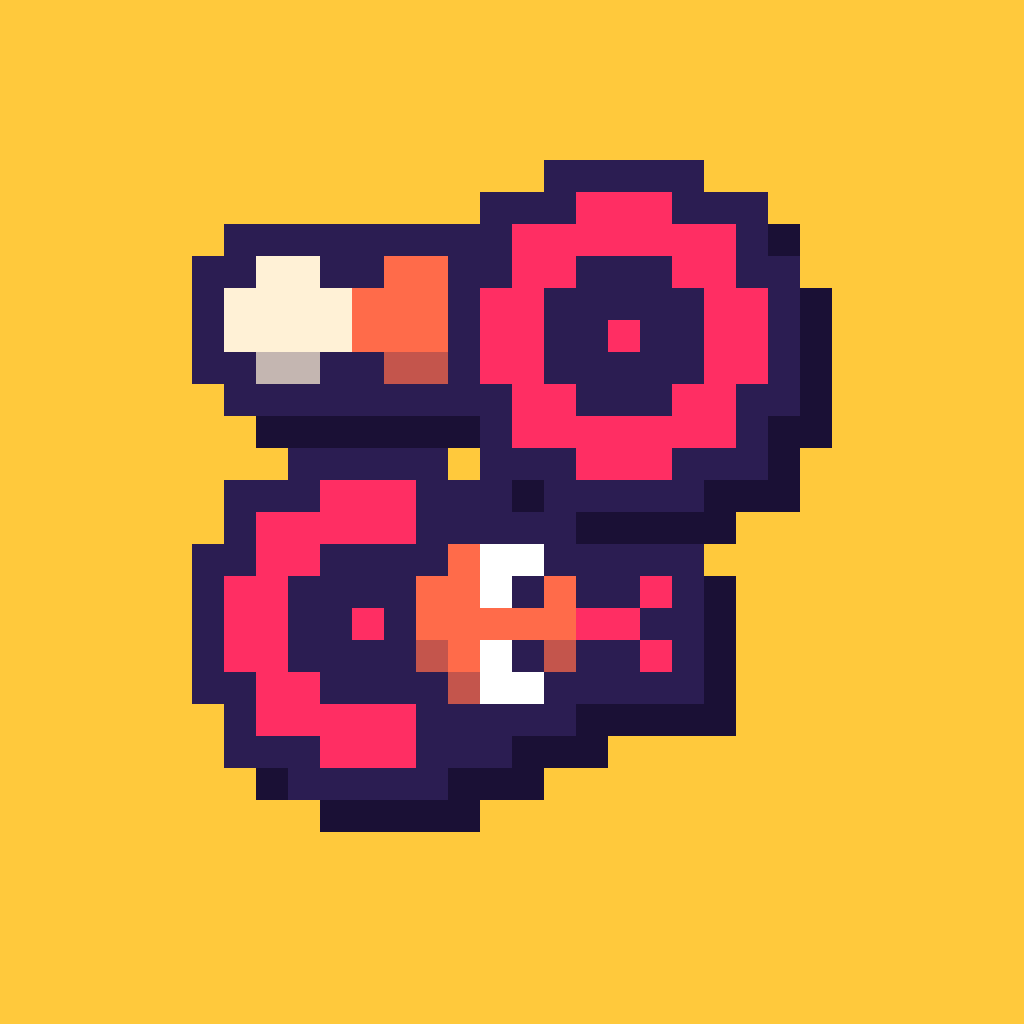
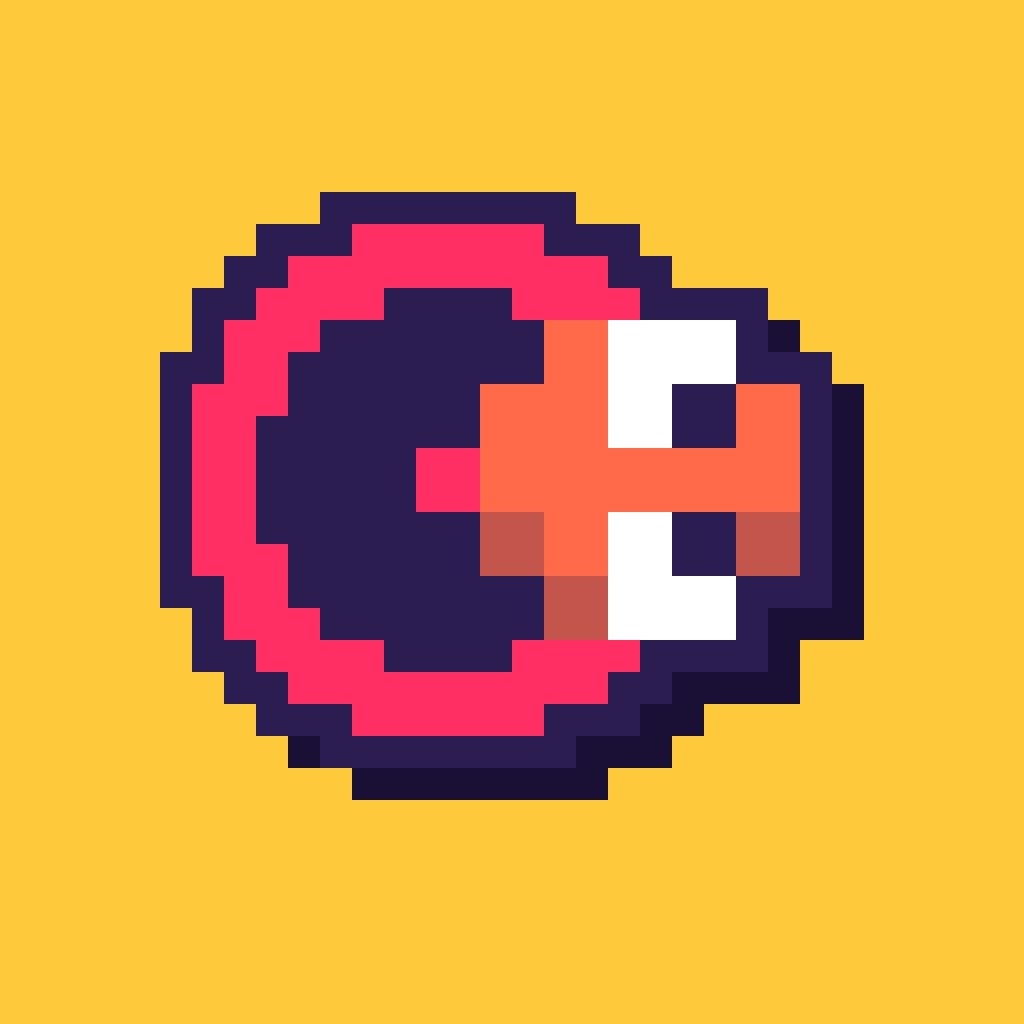
Redraw the wrap, portal and shed achievement images
The three read badly when shrunk to 64 pixels, so each is drawn again with
fewer, larger pieces.

wrap is the whole board in a cream wall: the head comes out of the wall at the
left, a segment goes into the wall at the right, with plain board between them.
portal is one large portal with the head in front of its dark centre, coming
out across the rim. shed is the live snake going up at the right and the
dropped end, a bomb on a segment, at the left, with clear yellow between them.

Picture.part takes an optional clip, so that a piece can be cut off by a wall.
The other nine images are the same bytes as before.

diff --git a/tools/game-center/make_images.py b/tools/game-center/make_images.py
@@ -138,12 +138,18 @@ class Picture:
         self.cells: dict[tuple[int, int], Colour] = {}
         self.silhouette: set[tuple[int, int]] = set()
 
-    def part(self, paint, outline: bool = True) -> None:  # noqa: ANN001
+    def part(self, paint, outline: bool = True, clip: set[tuple[int, int]] | None = None) -> None:  # noqa: ANN001
+        """Paints a piece. With `clip`, only the cells of the piece inside it are kept, and the outline is drawn round
+        what is left, outline too: a piece that goes through a wall is cut off by the wall."""
         layer = Layer()
         paint(layer)
+        if clip is not None:
+            layer.cells = {cell: colour for cell, colour in layer.cells.items() if cell in clip}
         edge = {
             (x + dx, y + dy) for x, y in layer.cells for dx in (-1, 0, 1) for dy in (-1, 0, 1)
         } - layer.cells.keys()
+        if clip is not None:
+            edge &= clip
         if outline:
             for cell in edge:
                 self.cells[cell] = self.palette.ink
@@ -309,21 +315,26 @@ def segment(layer: Layer, p: Palette, x: int, y: int, size: int, index: int) -> 
 
 
 def wrap(p: Palette) -> Picture:
-    """A snake leaving the right edge of a small board with its head coming in at the left."""
+    """The whole board with a cream wall round it: the snake's head comes out of the wall at the left, its body goes into
+    the wall at the right, and there is plain board between them, so it is one snake that went through the wall."""
     picture = Picture(p)
+    side = 19  # cells across the board with its wall, the most that fits the safe square with an outline and a shadow
+    inside = {(i, j) for j in range(1, side - 1) for i in range(1, side - 1)}
 
     def board(layer: Layer) -> None:
-        for j in range(17):
-            for i in range(14):
-                layer.dot(9 + i, 7 + j, p.board_light if (i // 2 + j // 2) % 2 else p.board_dark)
+        for j in range(side):
+            for i in range(side):
+                if (i, j) in inside:
+                    layer.dot(i, j, p.board_light if ((i - 1) // 3 + (j - 1) // 3) % 2 else p.board_dark)
+                else:
+                    layer.dot(i, j, p.cream)
 
     def body(layer: Layer) -> None:
-        segment(layer, p, 15, 13, 5, 1)
-        segment(layer, p, 20, 13, 5, 0)
+        segment(layer, p, 14, 7, 5, 0)
 
     picture.part(board)
-    picture.part(body)
-    picture.part(lambda layer: snake_head(layer, p, 6, 13, "right"))
+    picture.part(body, clip=inside)
+    picture.part(lambda layer: snake_head(layer, p, 0, 7, "right", tongue=False), clip=inside)
     return picture
 
 
@@ -427,17 +438,32 @@ def portals(p: Palette) -> Picture:
 
 
 def portal_through(p: Palette) -> Picture:
-    """A snake going into one portal, along the top, and its head coming out of another, along the bottom."""
+    """One large portal with the head of the snake, large, coming out of its dark centre and across its rim."""
     picture = Picture(p)
+    d = 16
 
-    def body(layer: Layer) -> None:
-        segment(layer, p, 5, 7, 4, 1)
-        segment(layer, p, 9, 7, 4, 0)
+    def ring(layer: Layer) -> None:
+        layer.disc(0, 0, d, p.pink)
+        layer.disc(2, 2, d - 4, p.ink)
+        layer.rect(d // 2 - 1, d // 2 - 1, 2, 2, p.pink)
 
-    picture.part(body)
-    picture.part(lambda layer: portal(layer, p, 13, 5, 9, p.pink))
-    picture.part(lambda layer: portal(layer, p, 5, 14, 9, p.pink))
-    picture.part(lambda layer: snake_head(layer, p, 11, 16, "right"))
+    def head(layer: Layer) -> None:
+        snake_head(layer, p, 9, 3, "right", k=2, tongue=False)
+
+    def edge_of(paint) -> set[tuple[int, int]]:  # noqa: ANN001
+        layer = Layer()
+        paint(layer)
+        return {(x + dx, y + dy) for x, y in layer.cells for dx in (-1, 0, 1) for dy in (-1, 0, 1)}
+
+    # The head is in front of the portal and has no outline over it, where ink on ink or on the rim would blur it: it
+    # has one only where it is out in the open.
+    def outline(layer: Layer) -> None:
+        for cell in edge_of(head) - edge_of(ring):
+            layer.dot(cell[0], cell[1], p.ink)
+
+    picture.part(ring)
+    picture.part(outline, outline=False)
+    picture.part(head, outline=False)
     return picture
 
 
@@ -450,20 +476,18 @@ def hotpotato(p: Palette) -> Picture:
 
 
 def shed(p: Palette) -> Picture:
-    """A snake with its tail dropped behind it, and the bomb in the dropped part."""
+    """The live snake, head up, going away at the right; the dropped end, a bomb on a segment, left behind at the left.
+    The game just takes the dropped cells off the board, so the dropped end is drawn as it was, with nothing between."""
     picture = Picture(p)
 
     def live(layer: Layer) -> None:
-        segment(layer, p, 10, 6, 5, 1)
-        snake_head(layer, p, 15, 6, "right")
-
-    def dropped(layer: Layer) -> None:
-        segment(layer, p, 5, 17, 5, 0)
-        segment(layer, p, 10, 17, 5, 1)
+        snake_head(layer, p, 15, 4, "up")
+        segment(layer, p, 15, 9, 5, 1)
+        segment(layer, p, 15, 14, 5, 0)
 
     picture.part(live)
-    picture.part(dropped)
-    picture.part(lambda layer: bomb(layer, p, 4, 15, 7))
+    picture.part(lambda layer: segment(layer, p, 3, 14, 5, 1))
+    picture.part(lambda layer: bomb(layer, p, 1, 5, 9))
     return picture
 
 
